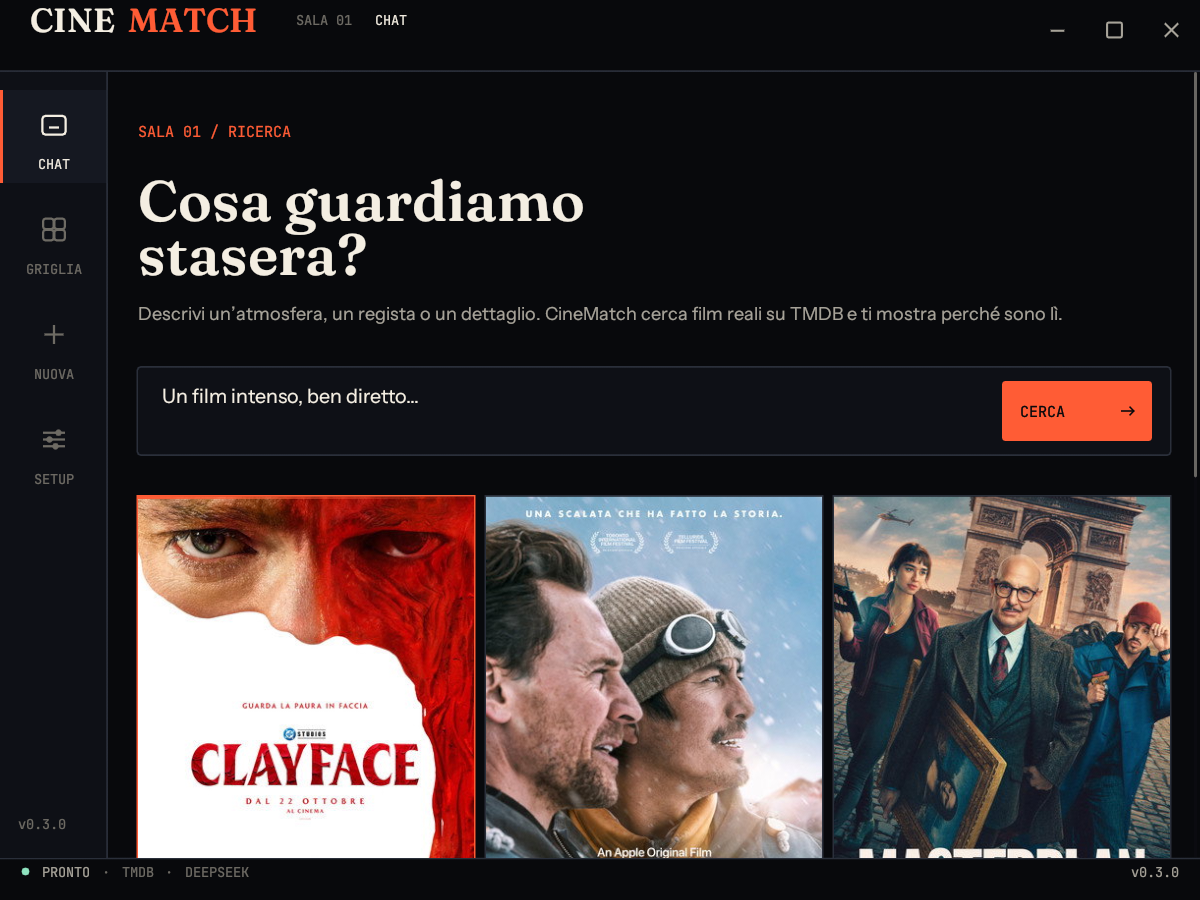
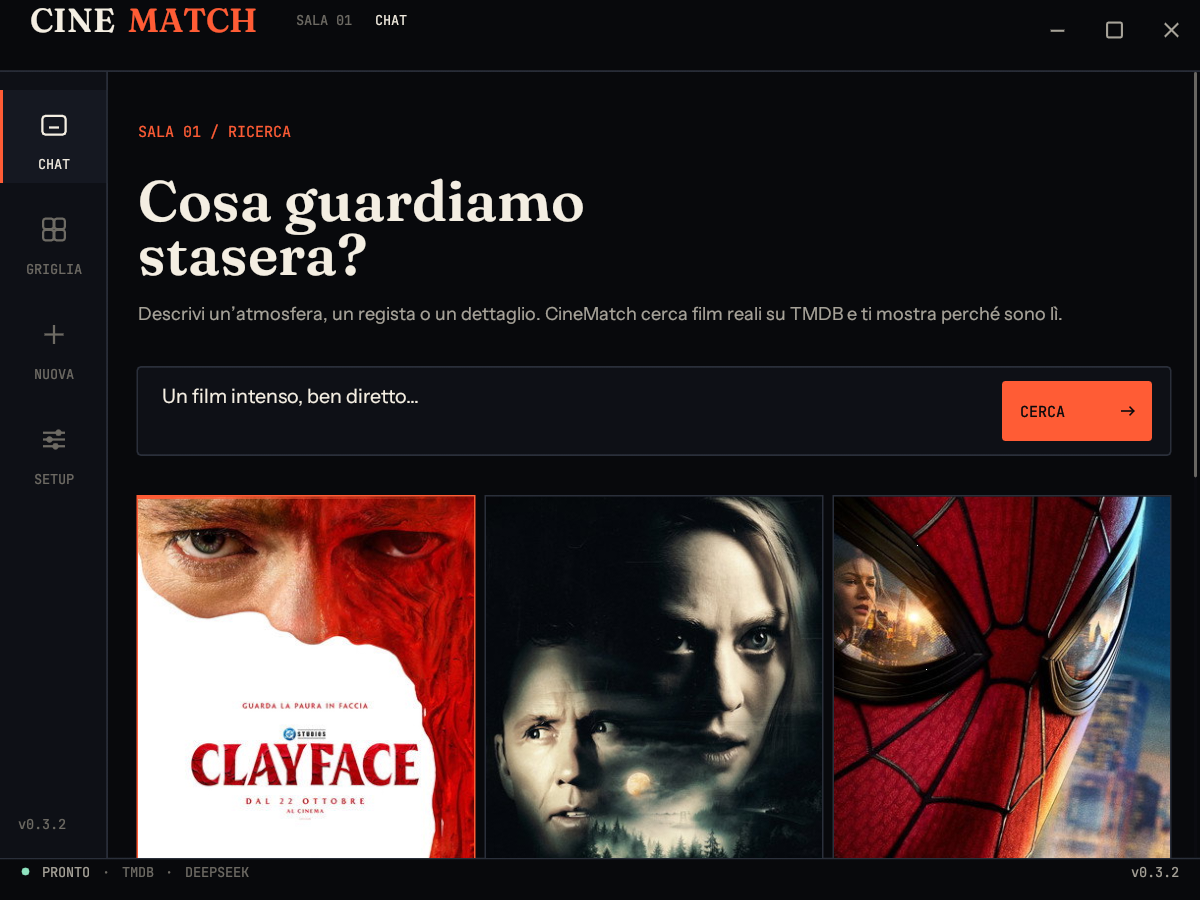
0.3.2: righe delle card chat allineate anche senza disponibilita

Changed region(s): [[0.4008, 0.5289, 0.9867, 0.9644]]

diff --git a/site/index.html b/site/index.html
@@ -72,7 +72,7 @@
           </a>
           <a class="ghost" href="https://github.com/Emanueleparis98/cinematch" rel="noopener">Vedi su GitHub ↗</a>
         </div>
-        <p class="fineprint">Installer per-utente · <span data-size>6,3 MB</span> · <span data-version>v0.3.1</span></p>
+        <p class="fineprint">Installer per-utente · <span data-size>6,3 MB</span> · <span data-version>v0.3.2</span></p>
       </div>
       <figure class="shot">
         <img src="assets/app-chat.png" width="1200" height="900" alt="CineMatch: la home della chat con hero, composer e poster">
@@ -129,7 +129,7 @@
 
   <footer class="site-footer wrap">
     <div class="foot-row">
-      <span>CineMatch <span data-version>v0.3.1</span></span>
+      <span>CineMatch <span data-version>v0.3.2</span></span>
       <span><a href="https://github.com/Emanueleparis98/cinematch" rel="noopener">GitHub</a> · <a href="https://www.themoviedb.org/" rel="noopener">TMDB</a></span>
     </div>
     <p class="tmdb">This product uses the TMDB API but is not endorsed or certified by TMDB.</p>

diff --git a/src/ui/chat.rs b/src/ui/chat.rs
@@ -795,7 +795,6 @@ fn answer_view(
         let gap = 10.0;
         let card_w = ((ui.available_width() - gap * (cols - 1) as f32) / cols as f32)
             .floor();
-        let min_h = if cols > 1 { 184.0 } else { 0.0 };
         for row in a.cards[1..].chunks(cols) {
             ui.horizontal_top(|ui| {
                 ui.spacing_mut().item_spacing.x = gap;
@@ -803,7 +802,7 @@ fn answer_view(
                     ui.allocate_ui_with_layout(
                         egui::vec2(card_w, 0.0),
                         egui::Layout::top_down(egui::Align::LEFT),
-                        |ui| compact_card(ui, images, tax, card, actions, min_h),
+                        |ui| compact_card(ui, images, tax, card, actions, cols > 1),
                     );
                 }
             });
@@ -926,7 +925,7 @@ fn compact_card(
     tax: &Taxonomy,
     card: &Card,
     actions: &mut Actions,
-    min_h: f32,
+    aligned: bool,
 ) {
     let frame = egui::Frame::none()
         .fill(lumen::SURFACE)
@@ -934,9 +933,6 @@ fn compact_card(
         .rounding(Rounding::same(lumen::RADIUS))
         .inner_margin(egui::Margin::same(10.0));
     frame.show(ui, |ui| {
-        if min_h > 0.0 {
-            ui.set_min_height((min_h - 20.0).max(0.0));
-        }
         let content_w = ui.available_width();
         ui.set_min_width(content_w);
         ui.horizontal_top(|ui| {
@@ -956,18 +952,56 @@ fn compact_card(
                     .truncate(),
                 );
                 ui.add_space(4.0);
-                ui.add(egui::Label::new(wrapped(
-                    &card.perche,
-                    11.0,
-                    lumen::MUTED,
-                    ui.available_width(),
-                    2,
-                )));
+                let perche = |ui: &mut egui::Ui| {
+                    ui.add(egui::Label::new(wrapped(
+                        &card.perche,
+                        11.0,
+                        lumen::MUTED,
+                        ui.available_width(),
+                        2,
+                    )));
+                };
+                if aligned {
+                    ui.allocate_ui_with_layout(
+                        egui::vec2(ui.available_width(), 32.0),
+                        egui::Layout::top_down(egui::Align::LEFT),
+                        perche,
+                    );
+                } else {
+                    perche(ui);
+                }
                 if !card.consiglio.is_empty() {
                     ui.add_space(4.0);
-                    consiglio(ui, &card.consiglio, 10.0);
+                    if aligned {
+                        ui.allocate_ui_with_layout(
+                            egui::vec2(ui.available_width(), 30.0),
+                            egui::Layout::top_down(egui::Align::LEFT),
+                            |ui| consiglio(ui, &card.consiglio, 10.0),
+                        );
+                    } else {
+                        consiglio(ui, &card.consiglio, 10.0);
+                    }
+                } else if aligned {
+                    ui.add_space(4.0 + 30.0);
                 }
-                if let Some(av) = availability(card) {
+                if aligned {
+                    ui.add_space(4.0);
+                    let av = availability(card);
+                    ui.allocate_ui_with_layout(
+                        egui::vec2(ui.available_width(), 11.0),
+                        egui::Layout::top_down(egui::Align::LEFT),
+                        |ui| {
+                            if let Some(av) = &av {
+                                ui.add(
+                                    egui::Label::new(
+                                        lumen::mono(8.5, av).color(lumen::CELADON),
+                                    )
+                                    .truncate(),
+                                );
+                            }
+                        },
+                    );
+                } else if let Some(av) = availability(card) {
                     ui.add_space(4.0);
                     ui.add(
                         egui::Label::new(

diff --git a/README.md b/README.md
@@ -392,10 +392,10 @@ Per una build locale, dopo aver installato Inno Setup 6:
 
 ```powershell
 cargo build --release
-ISCC.exe /DMyAppVersion=0.3.1 installer\cinematch.iss
+ISCC.exe /DMyAppVersion=0.3.2 installer\cinematch.iss
 ```
 
-Il risultato e `dist\CineMatch-Setup-0.3.1.exe`. Il manifesto
+Il risultato e `dist\CineMatch-Setup-0.3.2.exe`. Il manifesto
 `dist\latest.json` viene generato dalla CI dopo la firma e contiene versione,
 URL, dimensione e SHA-256 del setup.
 
